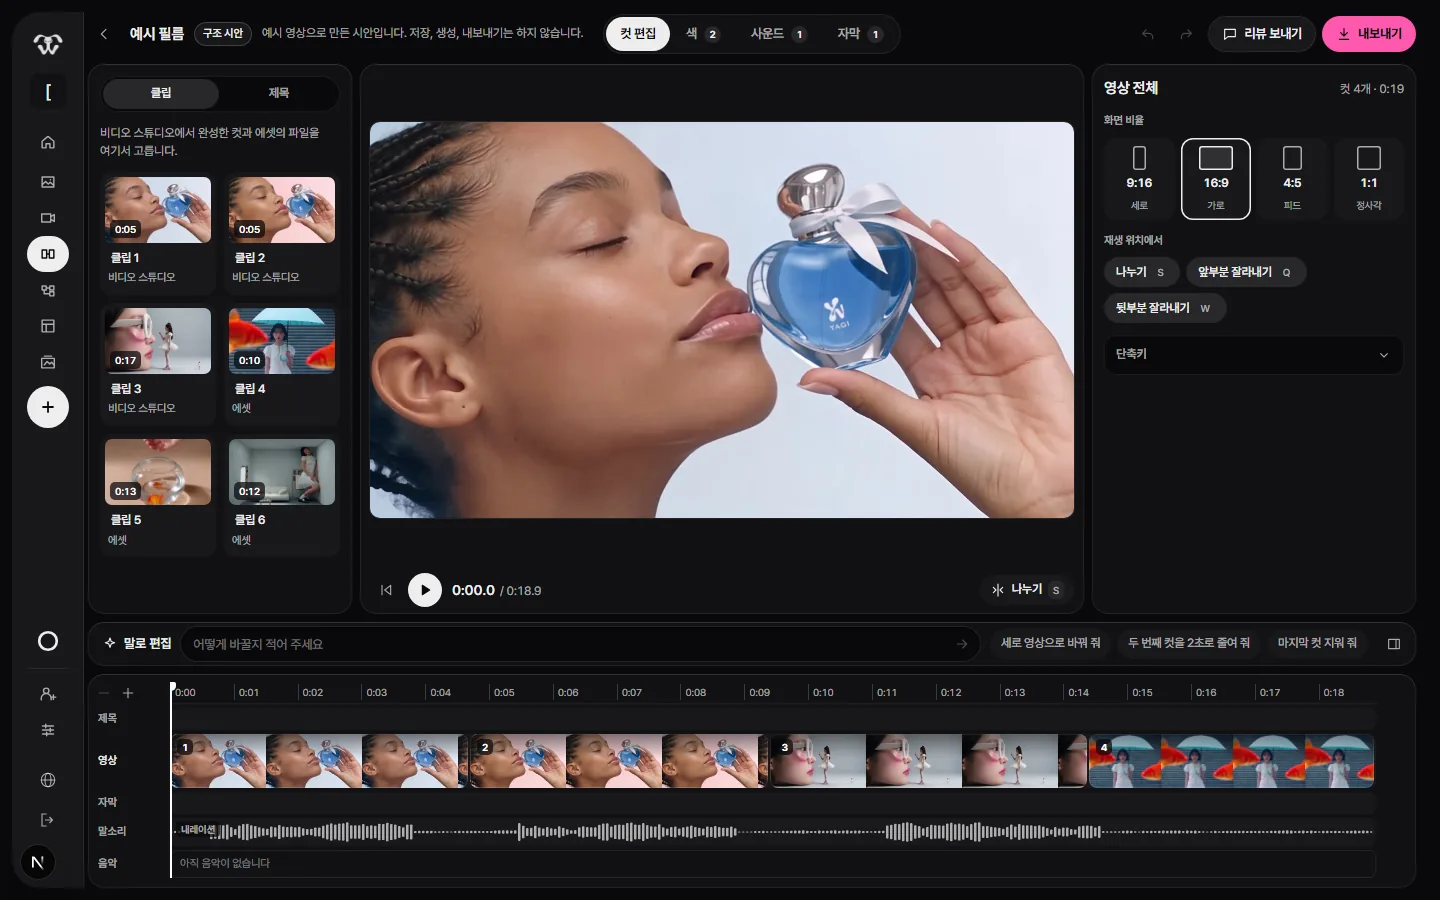
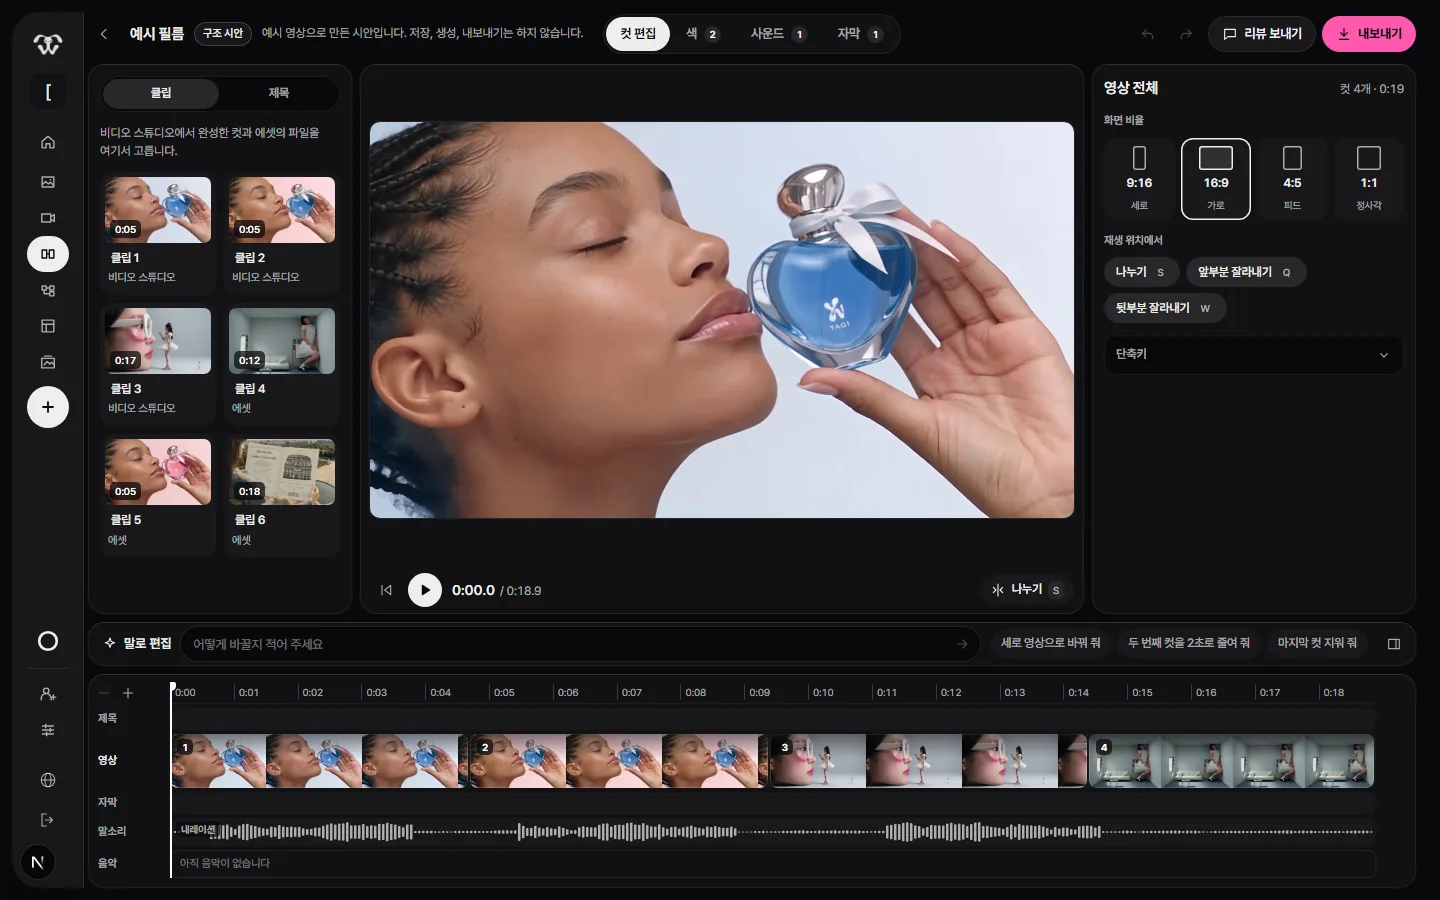
fix(brand-studio): 편집 스튜디오 v2 시안의 예시 필름이 워크스페이스 호스트에서 열리게
운영(brand.twings.app)에서 클립 4·5의 썸네일이 검고 타임라인의 4번 컷이 비어 있었다. 그래서
색 공간의 "4번 컷이 다른 컷보다 어둡습니다"도 사라졌다.

원인: brand.twings.app은 공개 파일을 이름 단위 목록(STUDIO_DEMO_FILES, lib/routing/surfaces.ts)
으로만 연다. film-aquarium과 film-daydream은 커밋돼 있고 twings.app에서는 열리지만 그 목록에 없어
404였다. 로컬과 프리뷰 호스트는 이 정책을 타지 않아 보이지 않았다.

- 예시 필름 두 편과 참고 이미지 한 장을 목록에 이미 있는 파일로 바꿨다(호스트 정책은 넓히지 않음).
  4번 컷은 여전히 4:3이고 다른 컷보다 어두워서 색의 고칠 것 두 개가 그대로 나온다.
- tests/brand-studio/editor-v2/fixture-served.test.ts: 예시 경로가 브랜드 호스트에서 GET/HEAD로
  열리는지(brandRouteAllowed), public/에 있고 git이 추적하는지 확인한다. 문제였던 두 경로가
  걸린다는 것도 고정했다.
- 캡처 9장을 새 예시로 다시 찍었다. 문서 §10.1에 원인 한 줄.

Changed region(s): [[0.0625, 0.4667, 0.25, 0.56], [0.75, 0.8089, 0.9688, 0.8711], [0.1562, 0.3422, 0.25, 0.4356]]

diff --git a/tests/brand-studio/editor-v2/fixture-served.test.ts b/tests/brand-studio/editor-v2/fixture-served.test.ts
@@ -1,0 +1,57 @@
+import { execFileSync } from 'node:child_process';
+import { existsSync } from 'node:fs';
+import { join } from 'node:path';
+import { describe, expect, it } from 'vitest';
+import { FIXTURE_MATERIALS, FIXTURE_REFERENCES } from '@/lib/brand-studio/editor-v2/fixture';
+import { brandRouteAllowed } from '@/lib/routing/surfaces';
+
+/**
+ * The prototype's sample files must load where the prototype runs: on the workspace host.
+ *
+ * 2026-11-20, production: two sample films were committed and loaded on twings.app, but
+ * brand.twings.app serves public files by exact name only (`STUDIO_DEMO_FILES`), so they answered 404
+ * there: black thumbnails in the bin, an empty cut on the timeline and one colour finding missing.
+ * A file that merely exists on disk is not enough.
+ */
+const paths = [
+  ...FIXTURE_MATERIALS.flatMap((material) => [material.src, material.poster]),
+  ...FIXTURE_REFERENCES.map((reference) => reference.src),
+];
+const root = process.cwd();
+
+describe('editing studio v2 sample files are served on the workspace host', () => {
+  it('uses root-relative paths under /reel with no query, traversal or other origin', () => {
+    for (const path of paths) expect(path, path).toMatch(/^\/reel\/[a-z0-9/_.-]+\.(?:mp4|jpg|jpeg|png|webp)$/);
+    for (const path of paths) expect(path.includes('..'), path).toBe(false);
+  });
+
+  it('opens every sample file on the brand host for GET and HEAD, and for nothing else', () => {
+    for (const path of paths) {
+      expect(brandRouteAllowed(path, 'GET'), `${path} is not on the brand host's public file list`).toBe(true);
+      expect(brandRouteAllowed(path, 'HEAD'), path).toBe(true);
+      expect(brandRouteAllowed(path, 'POST'), path).toBe(false);
+    }
+  });
+
+  it('would have caught the two films that failed on production', () => {
+    expect(brandRouteAllowed('/reel/landing/v7/film-aquarium.mp4', 'GET')).toBe(false);
+    expect(brandRouteAllowed('/reel/landing/v7/film-daydream.jpg', 'GET')).toBe(false);
+  });
+
+  it('points only at files that exist and are committed, so the deployed build carries them', () => {
+    for (const path of paths) expect(existsSync(join(root, 'public', path)), `${path} is missing under public/`).toBe(true);
+    const tracked = new Set(
+      execFileSync('git', ['ls-files', '--', ...paths.map((path) => `public${path}`)], { cwd: root, encoding: 'utf8', windowsHide: true })
+        .split(/\r?\n/)
+        .filter(Boolean),
+    );
+    for (const path of paths) expect(tracked.has(`public${path}`), `${path} is not tracked by git`).toBe(true);
+  });
+
+  it('gives every material its own film and every film a poster beside it', () => {
+    expect(new Set(FIXTURE_MATERIALS.map((material) => material.src)).size).toBe(FIXTURE_MATERIALS.length);
+    for (const material of FIXTURE_MATERIALS) {
+      expect(material.poster.replace(/\.(?:jpg|jpeg|png|webp)$/, ''), material.id).toBe(material.src.replace(/\.mp4$/, ''));
+    }
+  });
+});

diff --git a/lib/brand-studio/editor-v2/fixture.ts b/lib/brand-studio/editor-v2/fixture.ts
@@ -4,6 +4,11 @@
  * Every file is one of our own films already published under `public/reel`. Nothing comes from a
  * customer, a database or a reference product, and the footage has no sound: the voice and music lanes
  * are drawn from the numbers below, which is why the sound workspace marks itself as a sample.
+ *
+ * The workspace host (brand.twings.app) serves public files by exact name only
+ * (`STUDIO_DEMO_FILES` in lib/routing/surfaces.ts): a file that is committed and loads on twings.app
+ * still answers 404 there unless it is on that list. Every path below must be on it;
+ * tests/brand-studio/editor-v2/fixture-served.test.ts fails otherwise.
  */
 import type { ComposerProject } from '@/lib/brand-studio/compose/timeline';
 import type { EditorDoc, MusicTrack, SpeechRegion } from './model';
@@ -29,14 +34,14 @@ export const FIXTURE_MATERIALS: readonly FixtureMaterial[] = [
   { id: 'm1', src: '/reel/landing/v7/rx-beauty-world.mp4', poster: '/reel/landing/v7/rx-beauty-world.jpg', durationSec: 4.7, ratio: 16 / 9, origin: 'video_studio', focusX: 50 },
   { id: 'm2', src: '/reel/landing/v7/rx-beauty-product.mp4', poster: '/reel/landing/v7/rx-beauty-product.jpg', durationSec: 4.7, ratio: 16 / 9, origin: 'video_studio', focusX: 56 },
   { id: 'm3', src: '/reel/landing/v7/film-tutu.mp4', poster: '/reel/landing/v7/film-tutu.jpg', durationSec: 17, ratio: 16 / 9, origin: 'video_studio', focusX: 48 },
-  { id: 'm4', src: '/reel/landing/v7/film-aquarium.mp4', poster: '/reel/landing/v7/film-aquarium.jpg', durationSec: 10, ratio: 4 / 3, origin: 'asset', focusX: 50 },
-  { id: 'm5', src: '/reel/landing/v7/film-daydream.mp4', poster: '/reel/landing/v7/film-daydream.jpg', durationSec: 13, ratio: 4 / 3, origin: 'asset', focusX: 50 },
-  { id: 'm6', src: '/reel/brands/tea-editorial.mp4', poster: '/reel/brands/tea-editorial.jpg', durationSec: 12, ratio: 4 / 3, origin: 'asset', focusX: 44 },
+  { id: 'm4', src: '/reel/brands/tea-editorial.mp4', poster: '/reel/brands/tea-editorial.jpg', durationSec: 12, ratio: 4 / 3, origin: 'asset', focusX: 44 },
+  { id: 'm5', src: '/reel/landing/v7/rx-beauty-orig.mp4', poster: '/reel/landing/v7/rx-beauty-orig.jpg', durationSec: 4.9, ratio: 16 / 9, origin: 'asset', focusX: 52 },
+  { id: 'm6', src: '/reel/brands/production-paris.mp4', poster: '/reel/brands/production-paris.jpg', durationSec: 18, ratio: 16 / 9, origin: 'asset', focusX: 50 },
 ];
 
 export const FIXTURE_REFERENCES: readonly FixtureReference[] = [
   { id: 'r1', src: '/reel/brands/slot-4-color-french-cobalt.jpg' },
-  { id: 'r2', src: '/reel/brands/tea-editorial.jpg' },
+  { id: 'r2', src: '/reel/brands/slot-2-space-concrete-blue.jpg' },
 ];
 
 /** A narration the sample film is assumed to carry: three spoken stretches. */

diff --git a/docs/BRAND-EDITING-STUDIO-V2.md b/docs/BRAND-EDITING-STUDIO-V2.md
@@ -397,6 +397,7 @@
 - 경로: `/brand/studio/editor?organizationId=<조직>`.
 - 스튜디오 경로 가드(`studioRouteContext`)가 먼저 돈다. 샌드박스 조직, 생성형 미디어가 막힌 조직, 프로젝트 전용 손님은 플래그와 상관없이 404다.
 - 시안은 조직의 어떤 것도 읽지 않는다. 요청을 보내지 않고, 저장하지 않고, 파일을 만들지 않는다(테스트가 막는다).
+- 예시 파일은 워크스페이스 호스트가 여는 공개 파일 목록(`STUDIO_DEMO_FILES`, `lib/routing/surfaces.ts`)에 있는 것만 쓴다. brand.twings.app은 공개 파일을 이름 단위로만 열어서, 커밋돼 있고 twings.app에서 열리는 파일도 목록에 없으면 404다. 2026-11-20 운영에서 예시 필름 두 편이 이 때문에 검게 나왔고, 목록에 있는 필름으로 바꿨다(`tests/brand-studio/editor-v2/fixture-served.test.ts`).
 
 ### 10.2 실제로 움직이는 것 / 예시 / 눌러도 아무 일 없는 것
 
